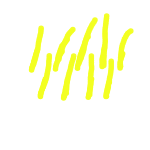
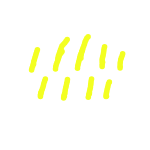
Adicionando +1 estagio pro trigo e fazendo que precise apertar 2x para plantar

diff --git a/src/data/plantConfig.ts b/src/data/plantConfig.ts
@@ -2,6 +2,7 @@ import wheat1 from '../assets/plants/wheat/wheat1.png';
 import wheat2 from '../assets/plants/wheat/wheat2.png';
 import wheat3 from '../assets/plants/wheat/wheat3.png';
 import wheat4 from '../assets/plants/wheat/wheat4.png';
+import wheat5 from '../assets/plants/wheat/wheat5.png';
 
 import { PlantCollection } from '../types/plantsTypes';
 
@@ -9,7 +10,7 @@ export const PLANTS: PlantCollection = {
   wheat: {
     name: 'Trigo',
     growTime: 10000,
-    sprites: [wheat1, wheat2, wheat3, wheat4],
+    sprites: [wheat1, wheat2, wheat3, wheat4, wheat5],
     sellPrice: 0.5,
   },
 };

diff --git a/src/features/home/hooks/usePlantGrowth.tsx b/src/features/home/hooks/usePlantGrowth.tsx
@@ -13,7 +13,7 @@ export function usePlantGrowth(plantType: PlantType) {
   const isMature = stage === totalStages;
 
   useEffect(() => {
-    if (stage === 0 || isMature) {return;}
+    if (stage === 0 || stage === 1 || isMature) {return;}
 
     const timer = setTimeout(() => {
       setStage((prev) => prev + 1);
@@ -25,6 +25,9 @@ export function usePlantGrowth(plantType: PlantType) {
   const interact = () => {
     if (stage === 0) {
       setStage(1);
+
+    }  else if (stage === 1) {
+      setStage(2);
     } else if (isMature) {
       addMoney(currentPlant.sellPrice);
       setStage(0);
